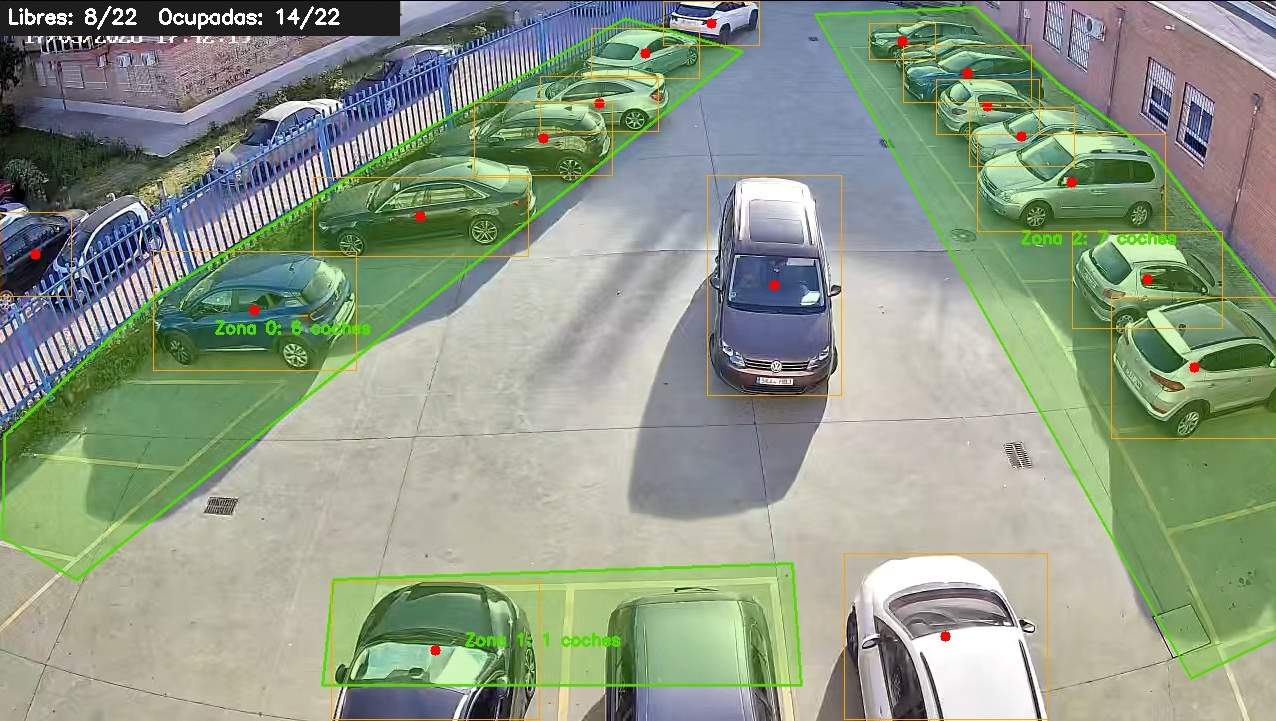
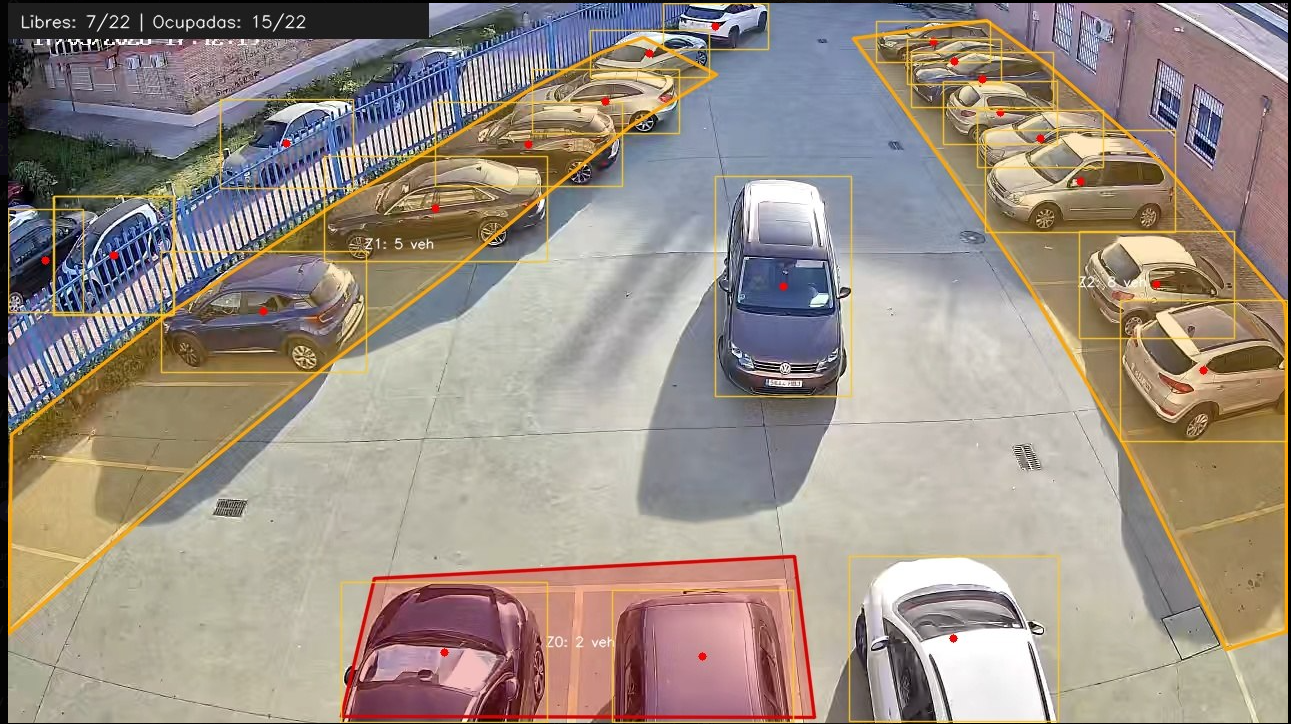
update

diff --git a/README.md b/README.md
@@ -290,8 +290,8 @@ Escribe el número real de plazas o pulsa Enter para dejar que el detector lo es
 ```
 
 ![ejemplo](./imgs/ejemplo1.png)
+![ejemplo](./imgs/ejemplo2.png)
 ![ejemplo](./imgs/ejemplo3.png)
-![ejemplo](./imgs/ejemplo4.png)
 
 ---
 